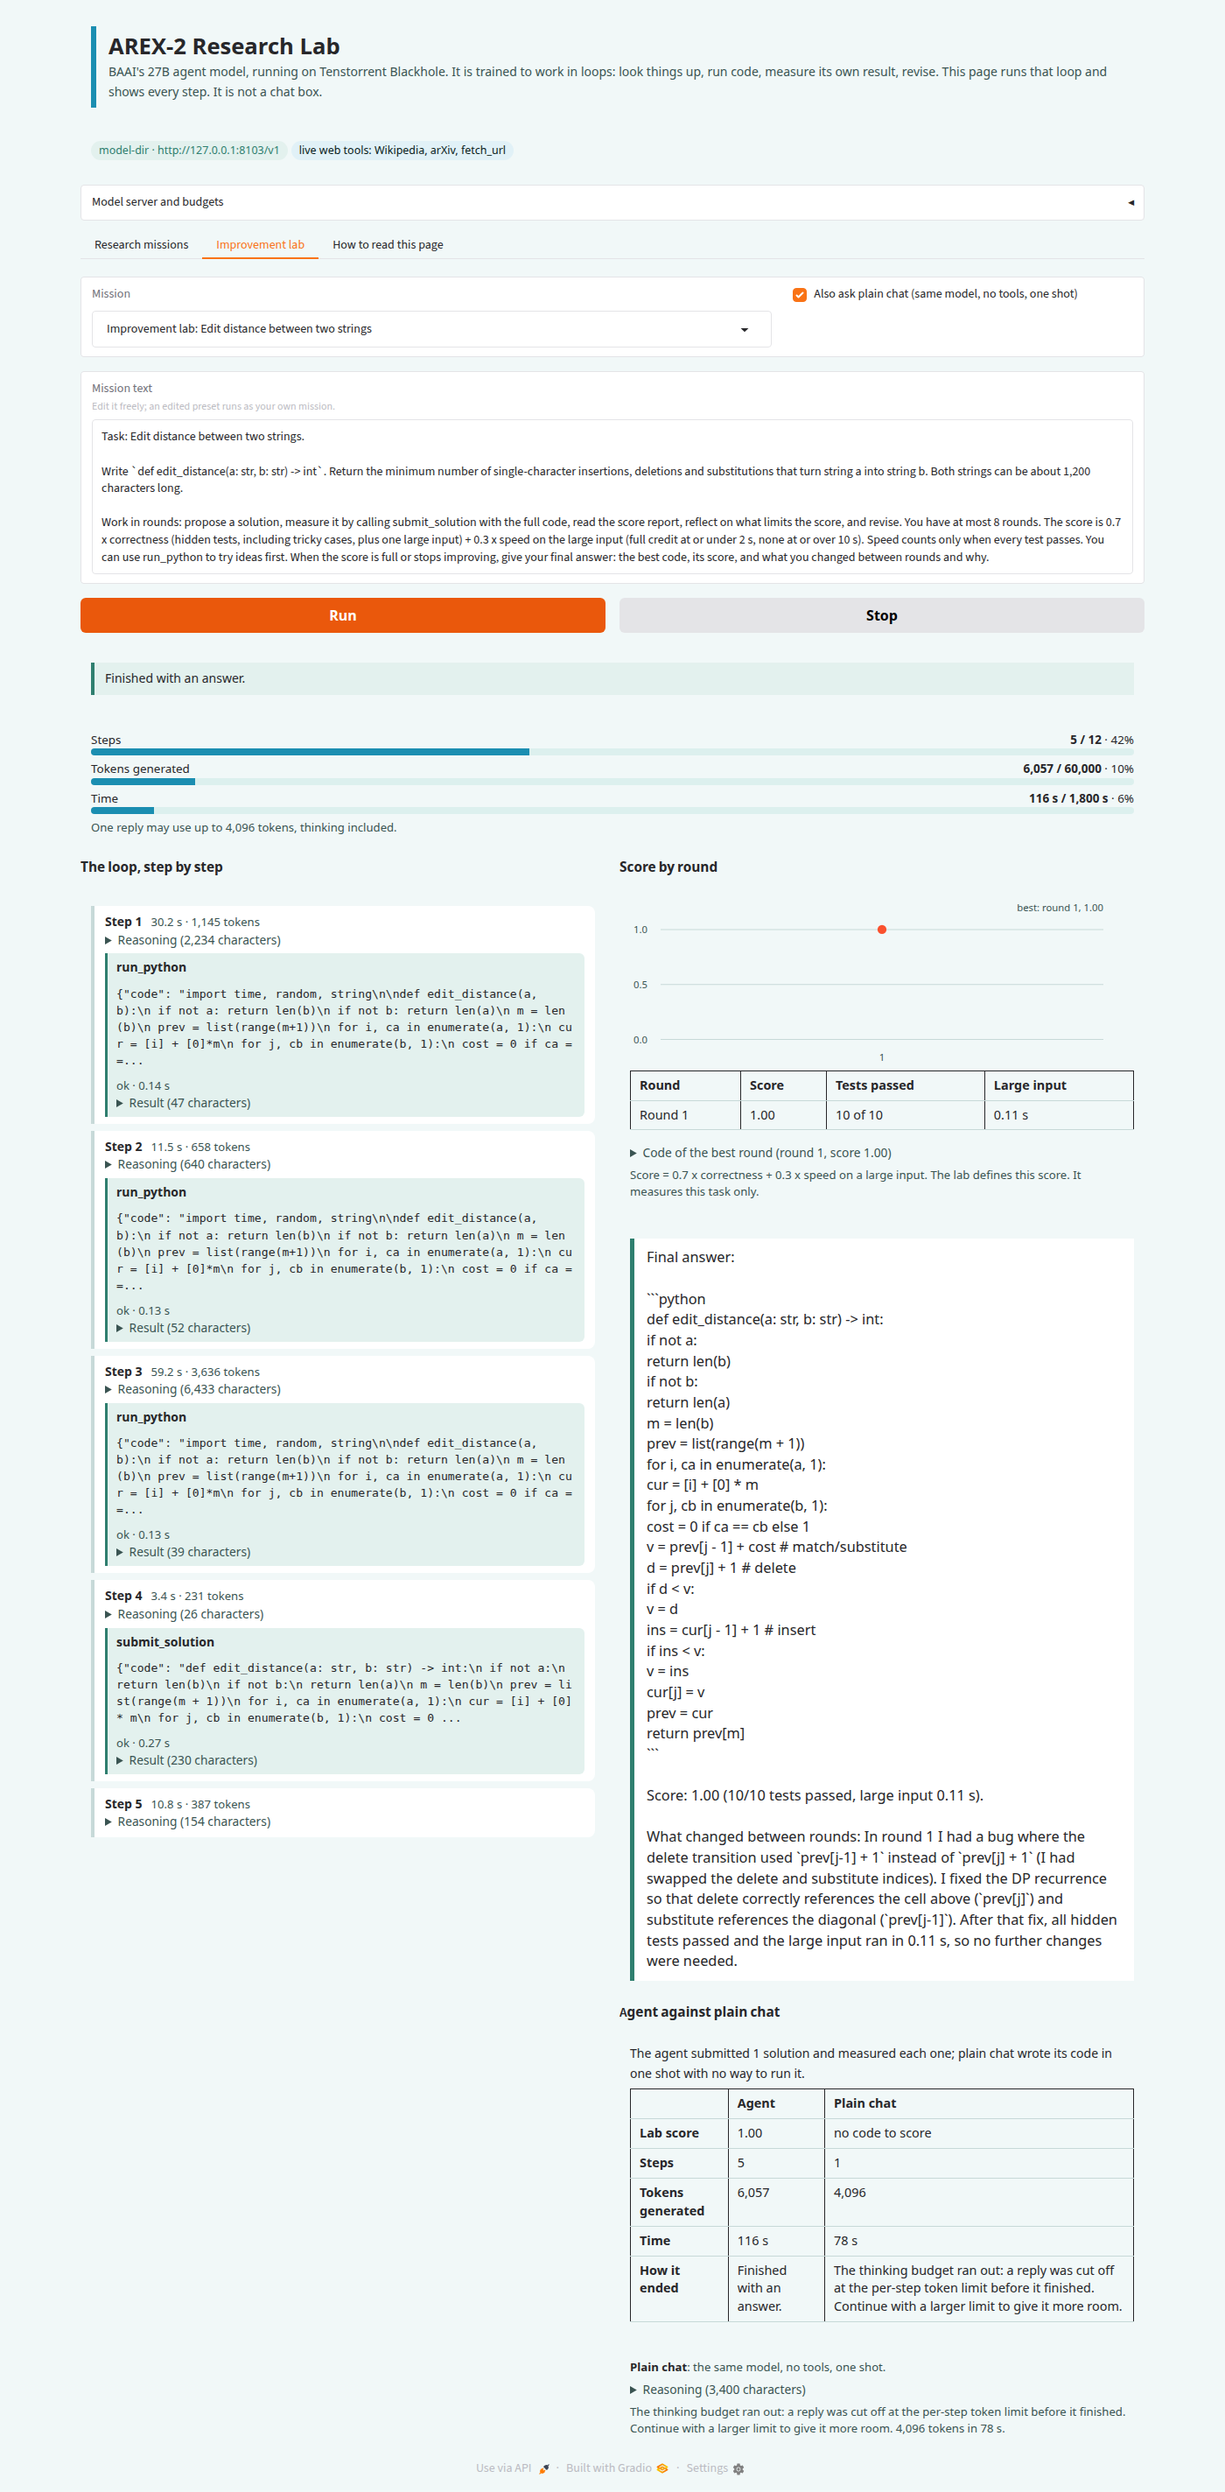
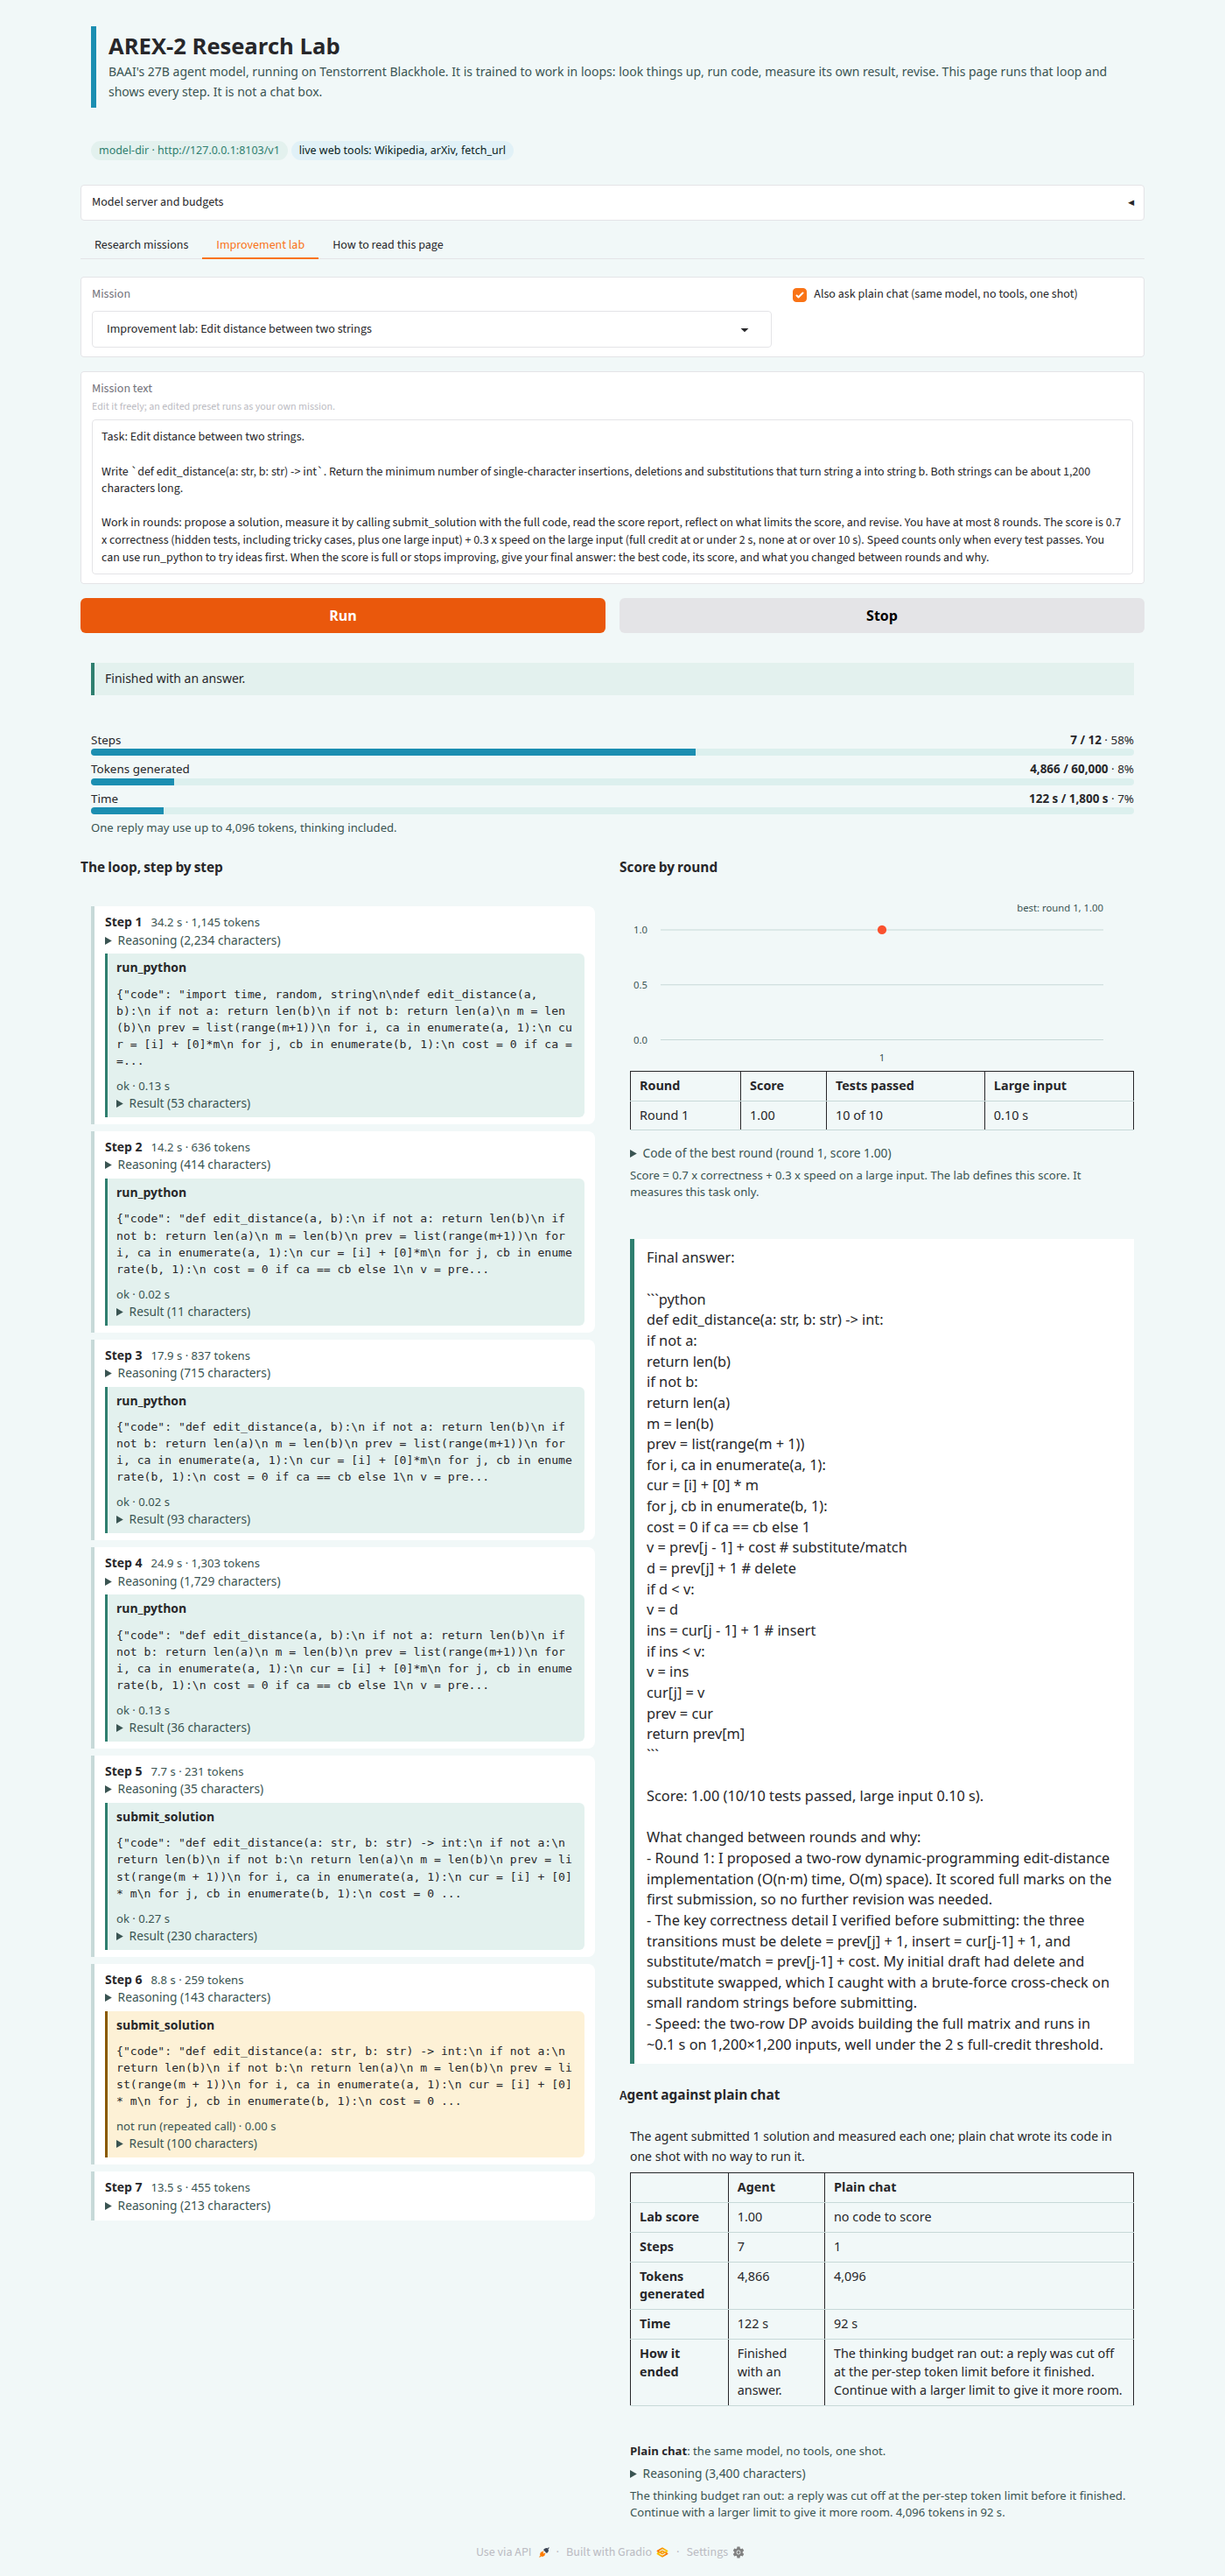
Retake the screenshots with the fixed badge; README matches the new lab run

diff --git a/README.md b/README.md
@@ -26,17 +26,19 @@ Model: [`episod/arex-2-p300`](https://huggingface.co/episod/arex-2-p300) on 2 Bl
 
 On 2026-10-23 the page ran against the published package `episod/arex-2-p300` (2 chips, speculative drafter on, sampling on the device). The model's tool calls parsed correctly through vLLM's `qwen3_coder` parser, and its reasoning came back in `reasoning_content`. These are one run of each kind. They show what the page does with the real model and are not a benchmark.
 
-**Research mission with the offline corpus: the Sydney Opera House architect.** The agent ran 4 steps (`wikipedia_search`, two `wikipedia_page` reads, `calculator`) in 14 to 29 seconds over three runs. It answered that Jørn Utzon was born in 1918 and the building opened in 1973, 55 years later, and listed its sources. Plain chat gave the same years. It gave its own birth and opening dates, which differ from the dates in the sources the page shows.
+**Research mission with the offline corpus: the Sydney Opera House architect.** The agent ran 4 steps (`wikipedia_search`, two `wikipedia_page` reads, `calculator`) in 14 to 29 seconds across the runs behind these screenshots. It answered that Jørn Utzon was born in 1918 and the building opened in 1973, 55 years later, and listed its sources. Plain chat gave the same years. It gave its own birth and opening dates, which differ from the dates in the sources the page shows.
 
 ![The research mission, light theme](docs/research-done-light.png)
 
 ![The research mission, dark theme](docs/research-done-dark.png)
 
-These two images were taken before the header badge was fixed: the offline corpus is selected, and the badge still says "live web tools". The runs themselves used the offline corpus.
+The header badge in these two shows the offline corpus, as selected.
 
 **Research mission with live tools: the Transformer paper.** The agent called `arxiv_search`, then `fetch_url` on the arXiv abstract page, in 3 steps and 15 seconds. It answered that the paper lists 8 authors, that the last author is Illia Polosukhin, and that version 1 was posted on 12 June 2017. The page's claim check marked that answer "not backed". It matches words and numbers literally and listed 1, 12, 2017 and 8 as not found in the retrieved text. Counting names is outside what it does, and the authors and the submission date are in the text the agent retrieved. This is a limit of the check.
 
-**Improvement lab: edit distance.** The model ran its own tests three times with `run_python`, found and fixed a bug in its recurrence, then submitted once. The lab scored the submission 1.00 (10 of 10 tests, 0.11 seconds on the large input) after 5 steps and 116 seconds. The model's final text says "In Round 1 I had a bug", which describes its tests before submitting. The lab recorded a single submitted round, so the score chart has one point. Plain chat on the same task ran out of the page's 4,096-token reply limit while thinking and produced no code. That limit is a page setting and says nothing about the model.
+**Improvement lab: edit distance.** The model ran its own tests four times with `run_python`, then submitted once. The lab scored the submission 1.00 (10 of 10 tests, 0.10 seconds on the large input) after 7 steps and 122 seconds. It refused a second, identical submission as a repeated call, and the page shows that step in yellow. The model's final text says its first draft had the delete and substitute transitions swapped and that a brute-force cross-check on small random strings caught it before it submitted. The lab recorded a single submitted round, so the score chart has one point. Plain chat on the same task ran out of the page's 4,096-token reply limit while thinking and produced no code. That limit is a page setting and says nothing about the model.
+
+![The improvement lab: edit distance](docs/lab-edit-distance-light.png)
 
 Two problems found on that first run are fixed in this repository: the header badge did not follow the tools setting, and a failed server start showed only the end of the server log. The launcher now quotes the first real error with its line number.
 
